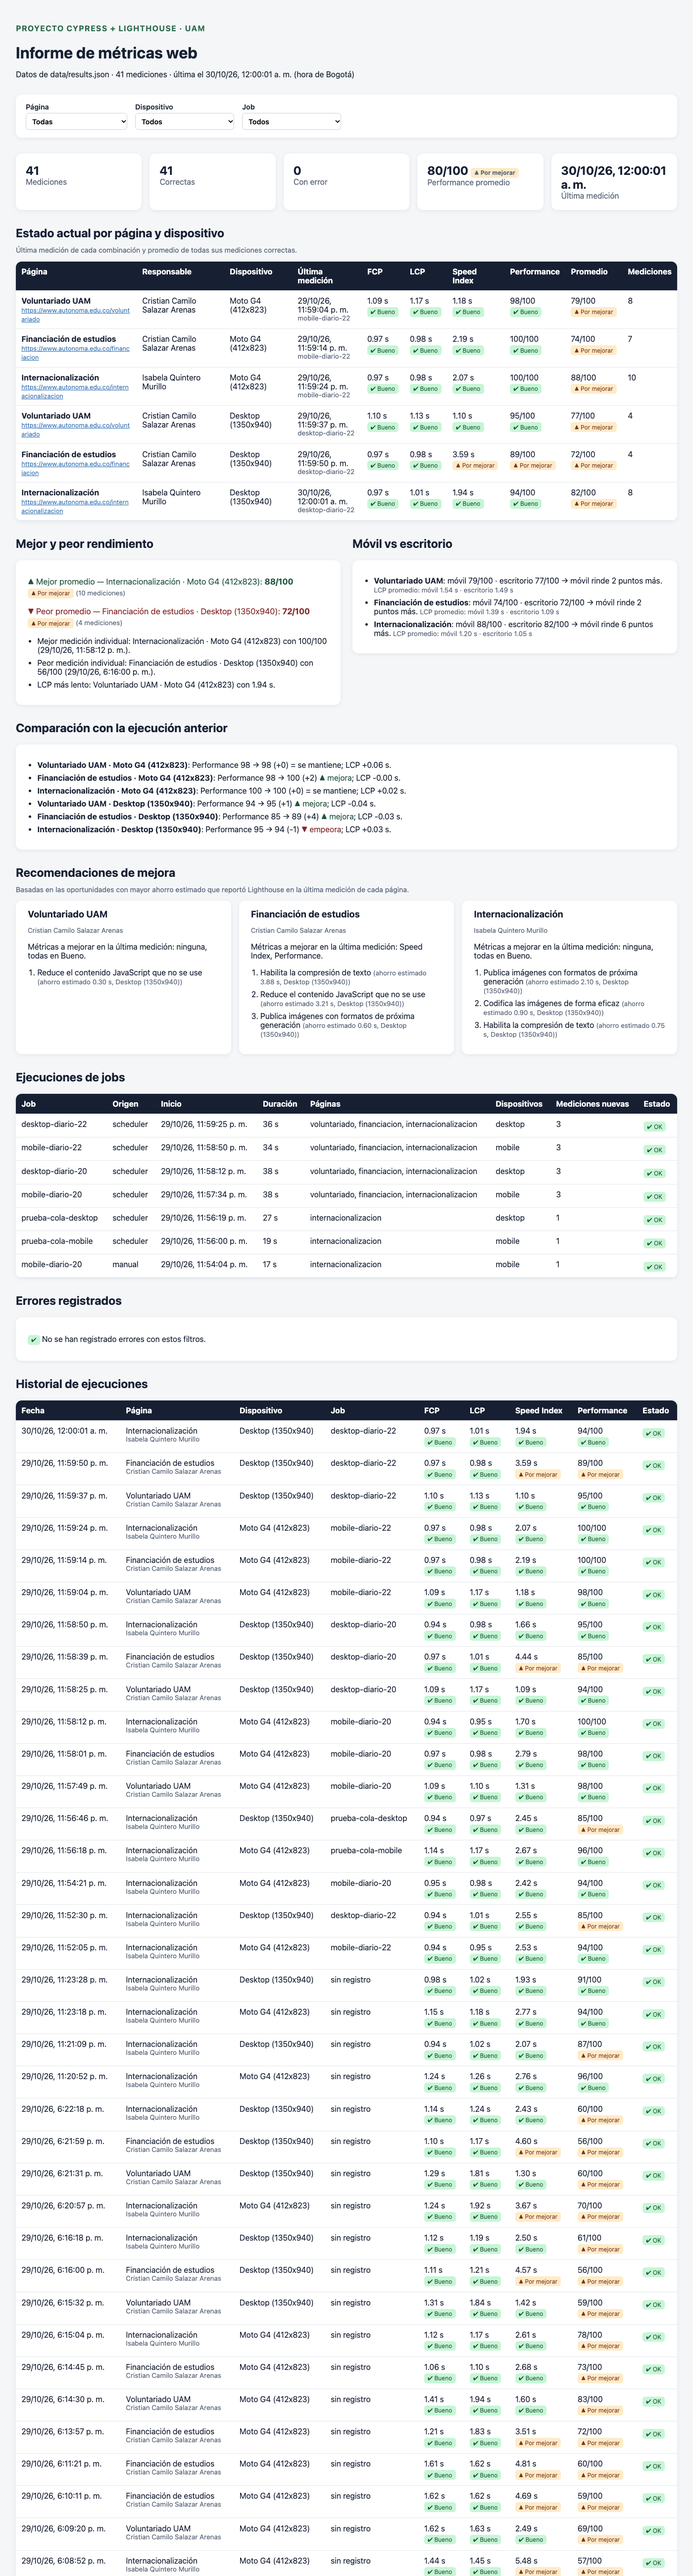
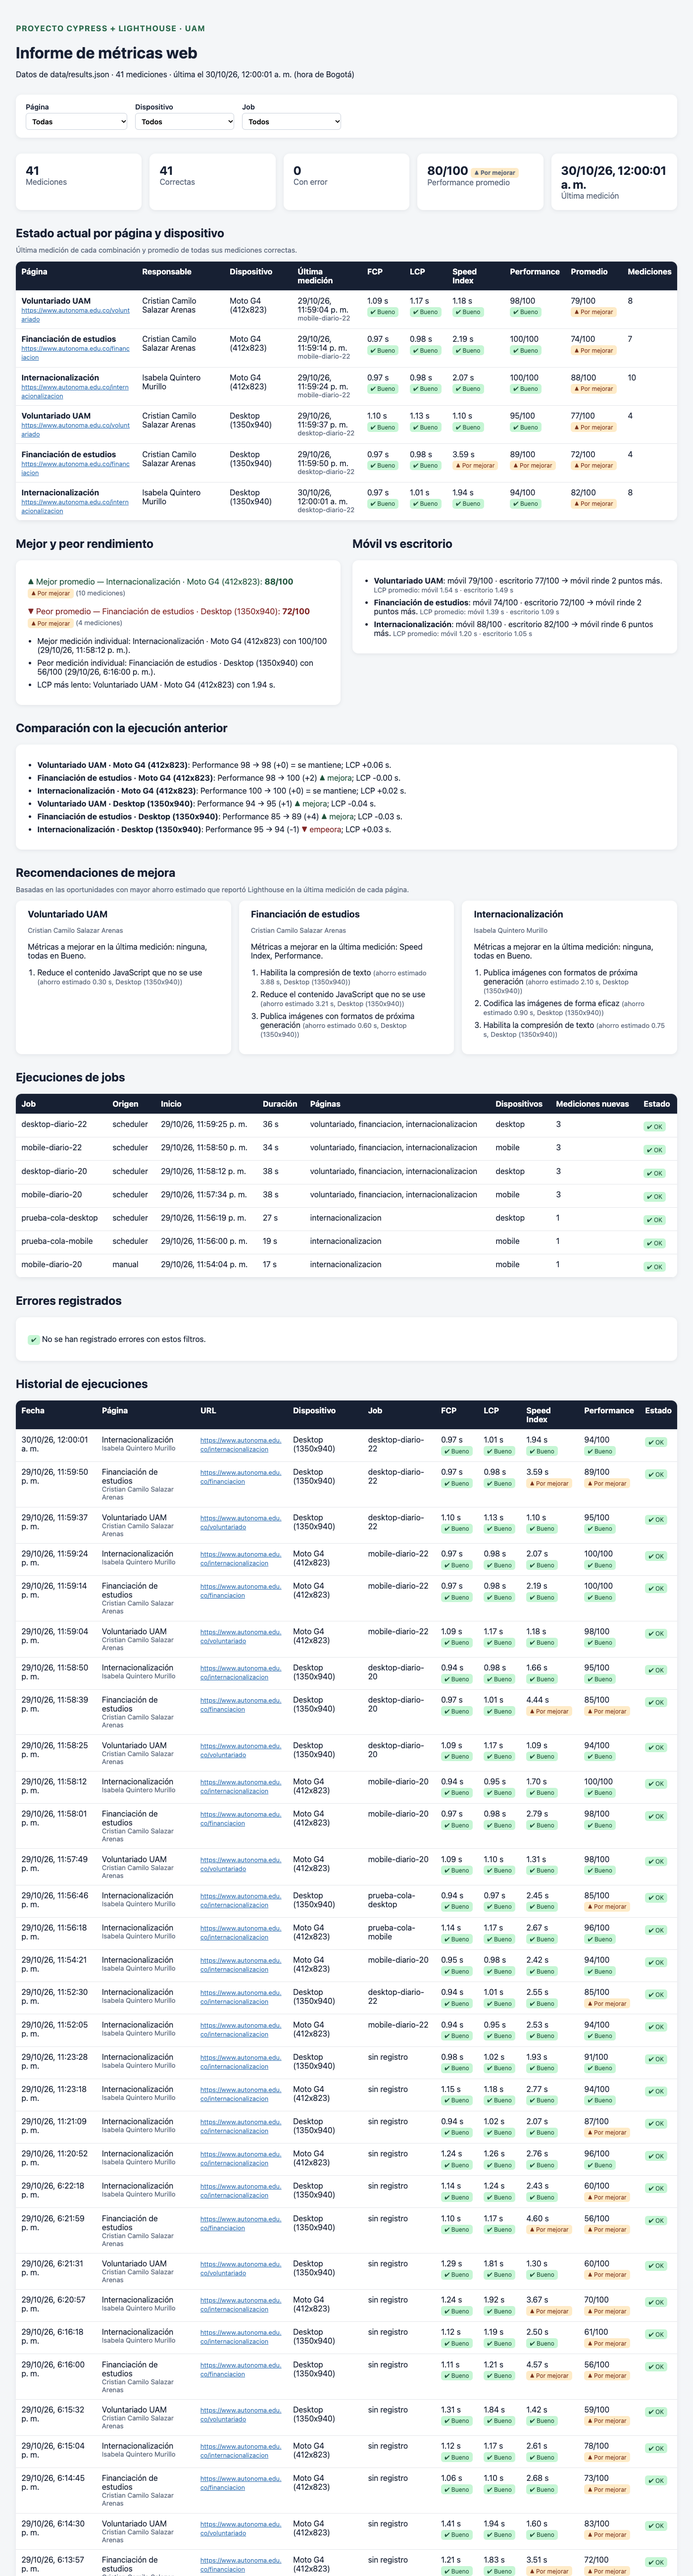
feat(report): mostrar la URL en el historial de ejecuciones
El enunciado pide mostrar URL, fecha, dispositivo, metricas, comparaciones y
errores; la URL solo aparecia en la tabla de estado actual. Se actualizan el
README y las capturas del informe.

Changed region(s): [[0.0307, 0.5296, 0.9829, 1.0]]

diff --git a/report/app.js b/report/app.js
@@ -238,6 +238,7 @@ function renderResults(runs) {
     <tr>
       <td>${formatDate(run.timestamp)}</td>
       <td>${escapeHtml(pageLabel(run))}<br><small class="muted">${escapeHtml(run.owner || '')}</small></td>
+      <td class="url">${run.url ? `<a href="${escapeHtml(run.url)}" target="_blank" rel="noopener">${escapeHtml(run.url)}</a>` : '—'}</td>
       <td>${escapeHtml(deviceLabel(run))}</td>
       <td>${escapeHtml(jobLabel(run))}</td>
       <td>${metricCell(run, 'firstContentfulPaint')}</td>
@@ -246,7 +247,7 @@ function renderResults(runs) {
       <td>${metricCell(run, 'performance')}</td>
       <td>${run.status === 'ok' ? '<span class="badge good">✔ OK</span>' : `<span class="badge bad">✖ Error</span><small>${escapeHtml(run.error)}</small>`}</td>
     </tr>
-  `).join('') || '<tr><td colspan="9">No hay mediciones con estos filtros.</td></tr>';
+  `).join('') || '<tr><td colspan="10">No hay mediciones con estos filtros.</td></tr>';
 }
 
 function renderThresholds() {

diff --git a/report/styles.css b/report/styles.css
@@ -29,6 +29,7 @@ table { border-collapse: collapse; width: 100%; min-width: 1000px; }
 table.compact { min-width: 800px; }
 th, td { text-align: left; padding: .7rem; border-bottom: 1px solid #e5e7eb; vertical-align: top; }
 th { background: #172033; color: white; }
+td.url { max-width: 230px; }
 td a { color: #2b6cb0; font-size: .8rem; overflow-wrap: anywhere; }
 .badge { display: inline-block; margin-top: .25rem; padding: .15rem .45rem; border-radius: .35rem; font-size: .75rem; background: #e5e7eb; white-space: nowrap; }
 .good { background: #c6f6d5; color: #22543d; }

diff --git a/report/index.html b/report/index.html
@@ -71,7 +71,7 @@
         <div class="table-wrap">
           <table>
             <thead>
-              <tr><th>Fecha</th><th>Página</th><th>Dispositivo</th><th>Job</th><th>FCP</th><th>LCP</th><th>Speed Index</th><th>Performance</th><th>Estado</th></tr>
+              <tr><th>Fecha</th><th>Página</th><th>URL</th><th>Dispositivo</th><th>Job</th><th>FCP</th><th>LCP</th><th>Speed Index</th><th>Performance</th><th>Estado</th></tr>
             </thead>
             <tbody id="results"></tbody>
           </table>

diff --git a/README.md b/README.md
@@ -17,7 +17,7 @@ El grupo tiene dos integrantes: Cristian es responsable de las dos primeras URL 
 ## Requisitos
 
 - Node.js 20 o superior y npm.
-- **Google Chrome** (o Chromium). Lighthouse no se ejecuta en el navegador Electron de Cypress, por eso todos los comandos usan `--browser chrome`.
+- **Google Chrome** (o Chromium). Lighthouse no se ejecuta en Electron, el navegador por defecto de Cypress. Por eso `npm run audit`, `npm run cy:run` y el scheduler usan Chrome aunque no se indique `--browser`. Si alguien fuerza otro navegador, la prueba falla y queda registrada como error en el JSON, en lugar de pasar sin guardar métricas.
 - Git.
 
 ## Instalación
@@ -195,7 +195,7 @@ Se abre en <http://localhost:4173/report/> y lee `data/results.json` y `data/job
 - Mejor y peor rendimiento, y diferencias entre móvil y escritorio.
 - Comparación con la ejecución anterior (Performance y LCP).
 - Recomendaciones de mejora por página.
-- Ejecuciones de jobs, errores registrados e historial completo.
+- Ejecuciones de jobs, errores registrados e historial completo con URL, fecha, dispositivo, job y métricas.
 - Tabla de umbrales.
 
 ## Evidencias
